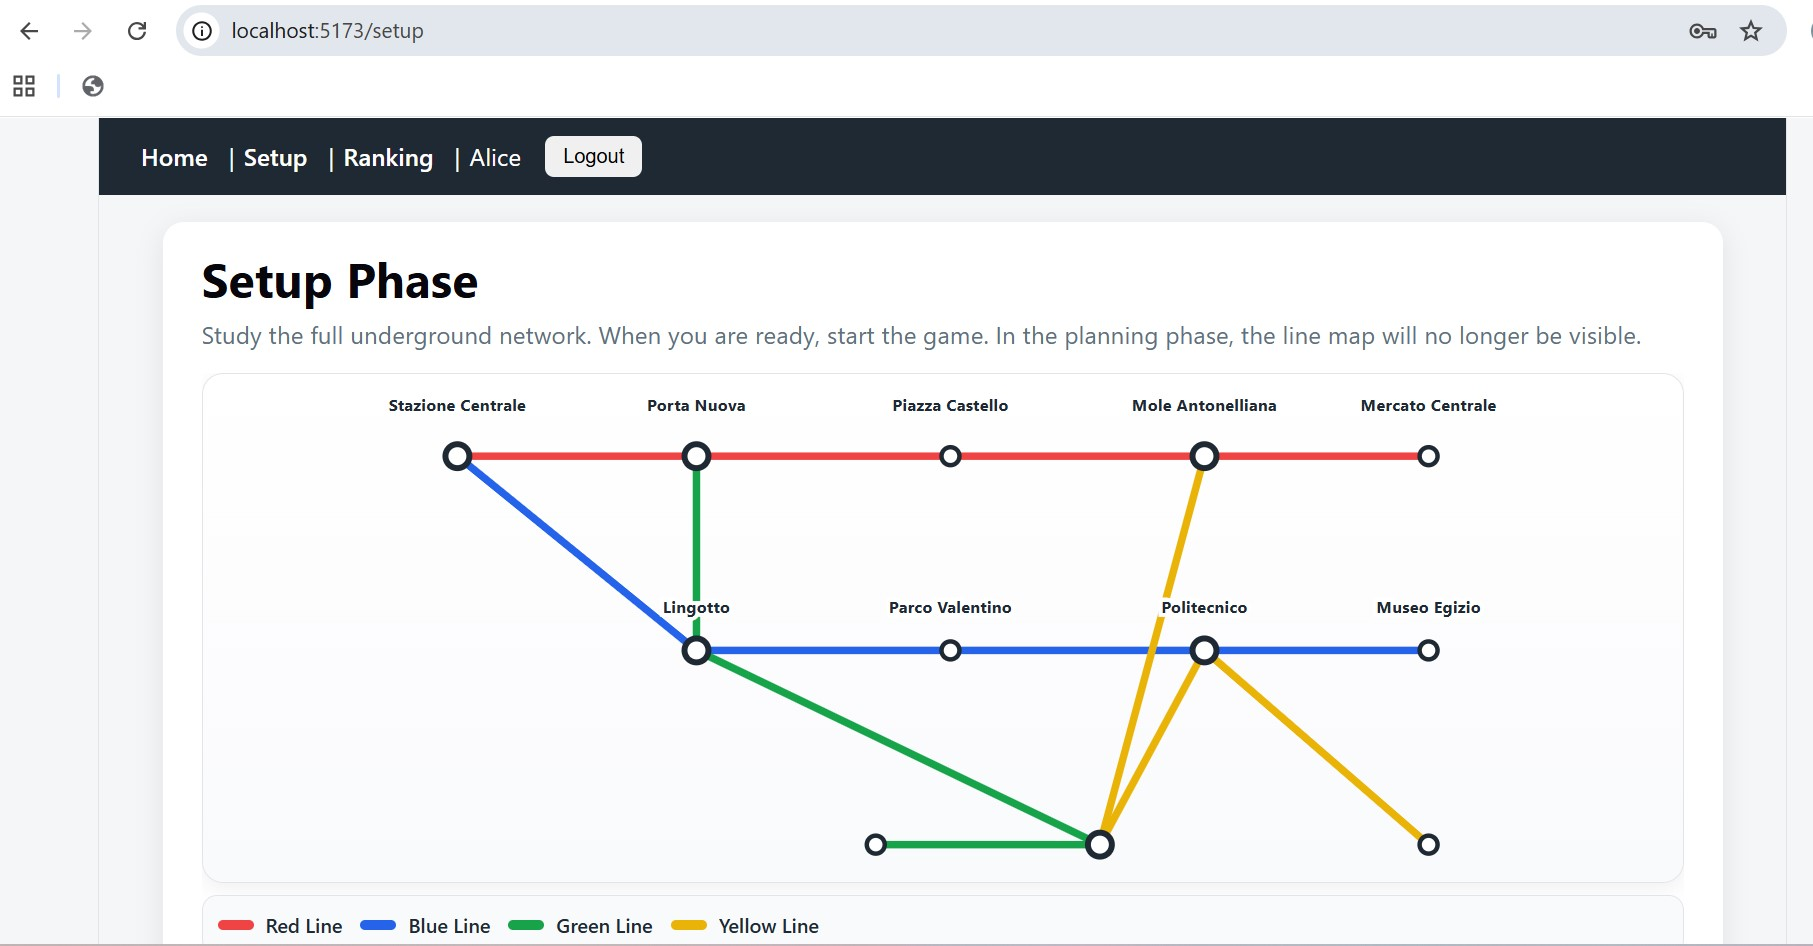
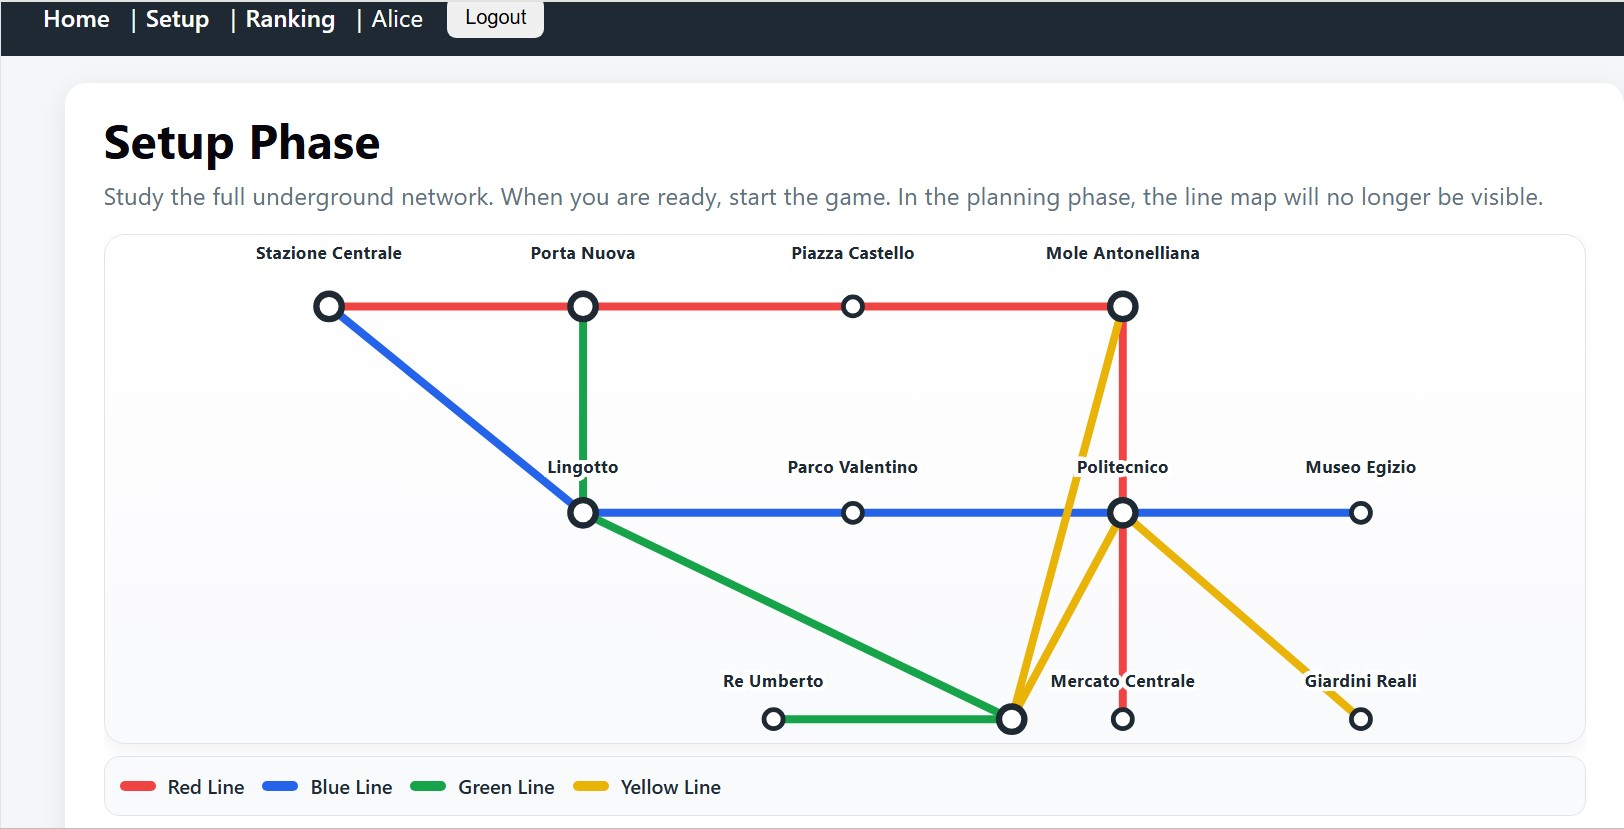
Finalize UI cleanup

diff --git a/client/src/components/MetroMap.jsx b/client/src/components/MetroMap.jsx
@@ -29,11 +29,11 @@ function MetroMap({ network }) {
     anchor: "middle",
   },
   "Mercato Centrale": {
-    x: 760,
-    y: 100,
-    labelX: 760,
-    labelY: 70,
-    anchor: "middle",
+   x: 610,
+  y: 360,
+  labelX: 610,
+  labelY: 340,
+  anchor: "middle",
   },
 
   "Lingotto": {
@@ -66,11 +66,11 @@ function MetroMap({ network }) {
   },
 
   "Re Umberto": {
-    x: 390,
-    y: 360,
-    labelX: 390,
-    labelY: 400,
-    anchor: "middle",
+     x: 390,
+  y: 360,
+  labelX: 390,
+  labelY: 340,
+  anchor: "middle",
   },
   "Porta Susa": {
     x: 540,
@@ -80,11 +80,11 @@ function MetroMap({ network }) {
     anchor: "middle",
   },
   "Giardini Reali": {
-    x: 760,
-    y: 360,
-    labelX: 760,
-    labelY: 400,
-    anchor: "middle",
+   x: 760,
+  y: 360,
+  labelX: 760,
+  labelY: 340,
+  anchor: "middle",
   },
 };
 
@@ -121,7 +121,7 @@ function MetroMap({ network }) {
     <svg
   width="100%"
   height="340"
-  viewBox="40 45 790 340"
+ viewBox="40 55 790 320"
   className="metro-map"
 >
         {network.lines.map((line) =>

diff --git a/client/src/App.jsx b/client/src/App.jsx
@@ -94,15 +94,6 @@ function NavigationBar() {
   );
 }
 
-function RankingPlaceholder() {
-  return (
-    <main>
-      <h1>Ranking</h1>
-      <p>Ranking page will be implemented next.</p>
-    </main>
-  );
-}
-
 function App() {
   return (
     <>